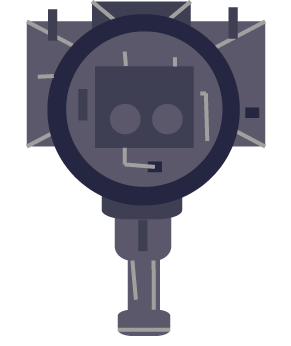
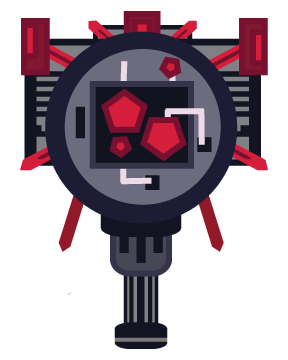
New images. Updates to plots

diff --git a/farmzilla/Assets/Scripts/View/Plot.cs b/farmzilla/Assets/Scripts/View/Plot.cs
@@ -6,8 +6,11 @@ using System.Collections;
 public class Plot : Button {
   public PlotBackground plotBackground;
 
+  public bool IsDestroyed;
+  public bool IsEssential;
+
   public void Start() {
-    Sprite s = PlotSpriteLibrary.Instance.RandomSprite();
+    Sprite s = IsDestroyed ? PlotSpriteLibrary.Instance.DestroyedSprite() : PlotSpriteLibrary.Instance.RandomSprite();
     _spriteRenderer.sprite = s;
     Normal = s;
     Hover = s;

diff --git a/farmzilla/Assets/Scripts/Jobs/Job.cs b/farmzilla/Assets/Scripts/Jobs/Job.cs
@@ -21,7 +21,7 @@ public class Job {
         plot = pl;
         Progress = 0f;
         CreatedAt = TimeConverter.GameTimeSince( DateTime.Now );
-        TimeSpan completionTimeSpan = new TimeSpan( 0, 0, 1, 0, 0 );
+        TimeSpan completionTimeSpan = new TimeSpan( 0, 16, 0, 0, 0 );
         WillBeCompletedOn = CreatedAt + completionTimeSpan;
 
         lastTime = CreatedAt;

diff --git a/farmzilla/Assets/Scripts/Models/PlotSpriteLibrary.cs b/farmzilla/Assets/Scripts/Models/PlotSpriteLibrary.cs
@@ -22,7 +22,11 @@ public class PlotSpriteLibrary : MonoBehaviour {
   }
 
   public Sprite RandomSprite() {
-    int random = myRandom.Next( (int)Sprites.Length );
-    return Sprites[random];
+    int random = myRandom.Next( (int)Sprites.Length - 1 ) + 1;
+    return Sprites[ random ];
+  }
+
+  public Sprite DestroyedSprite() {
+    return Sprites[ 0 ];
   }
 }

diff --git a/farmzilla/Assets/Scripts/Controller/GameController.cs b/farmzilla/Assets/Scripts/Controller/GameController.cs
@@ -72,6 +72,8 @@ public class GameController : BaseController {
           }
         }
       } );
+
+      //  TODO: Trigger HUD overlay w/ info
     }
   }
 }
